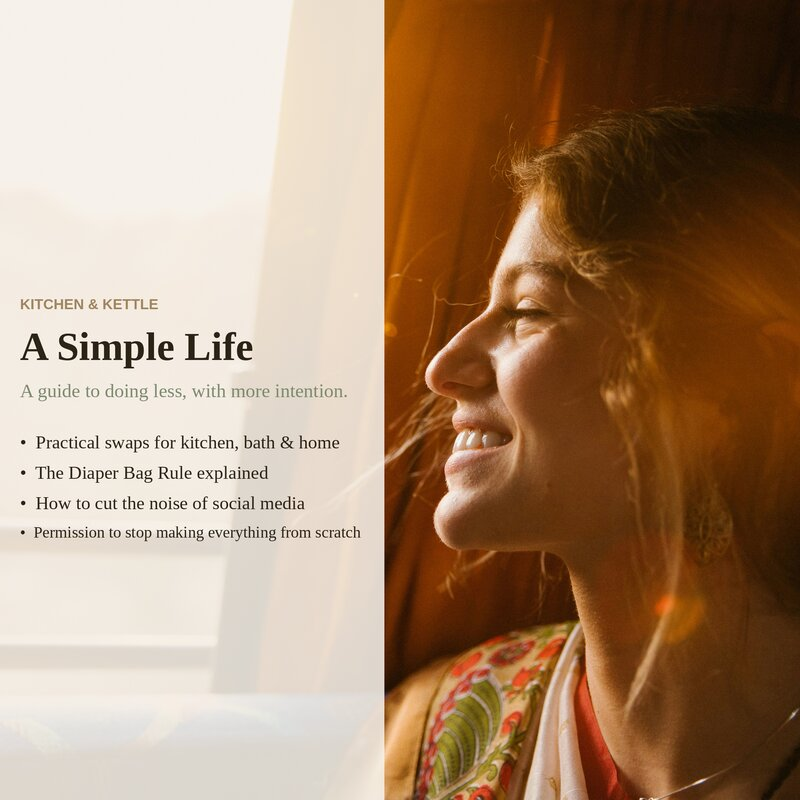
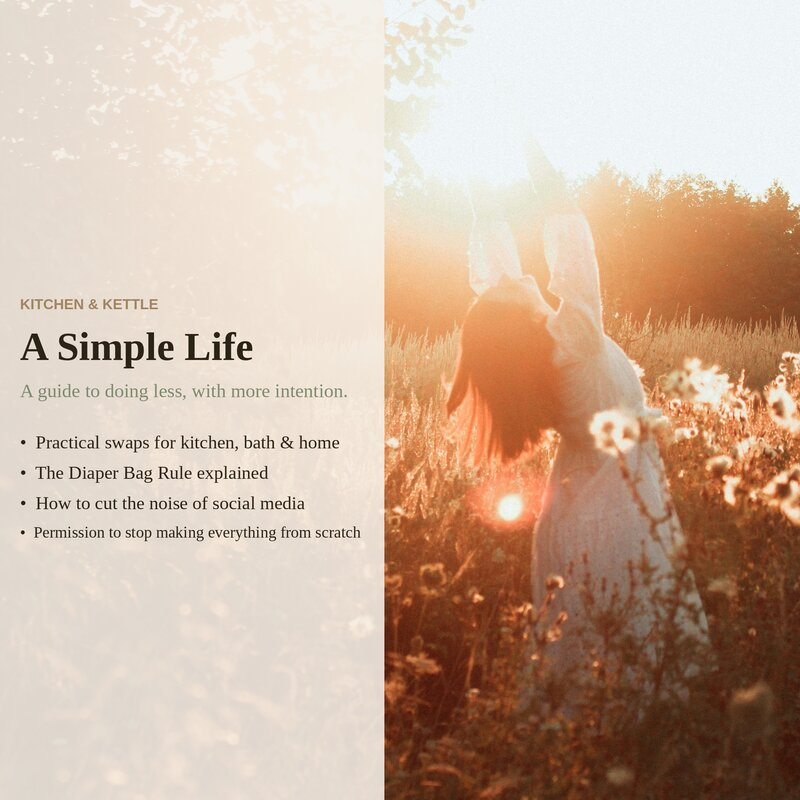
simple-life-guide: swap primary photo to taras-kots-nvcKq08ZnTU-unsplash
Replace church-of-the-king photo with new warm-toned image.
Regenerated: primary listing, all 3 pins, listing-web image.
Updated: pin.html CSS, generate_info_cards.py, generate_all_pins.py.

diff --git a/digital-products/simple-life-guide/pin.html b/digital-products/simple-life-guide/pin.html
@@ -15,7 +15,7 @@
   }
   .bg {
     position: absolute; inset: 0;
-    background: url('church-of-the-king-e6ZlCzBnGWI-unsplash.jpg') center/cover;
+    background: url('taras-kots-nvcKq08ZnTU-unsplash.jpg') center/cover;
   }
   .overlay {
     position: absolute; inset: 0;

diff --git a/scripts/generate_all_pins.py b/scripts/generate_all_pins.py
@@ -435,7 +435,7 @@ PRODUCTS = [
     {
         "name": "A Simple Life Guide",
         "dir": "simple-life-guide",
-        "photo": "church-of-the-king-e6ZlCzBnGWI-unsplash.jpg",
+        "photo": "taras-kots-nvcKq08ZnTU-unsplash.jpg",
         "tip": "The Diaper Bag Rule: one good thing that does many jobs beats five specialized ones. Mason jars, bar soap, shop cloths — use what already works.",
         "bullets": [
             "Kitchen swaps: mason jars, fewer oils, one brewer, no disposables",

diff --git a/digital-products/simple-life-guide/generate_info_cards.py b/digital-products/simple-life-guide/generate_info_cards.py
@@ -15,7 +15,7 @@ F_SERIF_BOLD = '/usr/share/fonts/liberation/LiberationSerif-Bold.ttf'
 F_SANS = '/usr/share/fonts/liberation/LiberationSans-Bold.ttf'
 F_SANS_REG = '/usr/share/fonts/liberation/LiberationSans-Regular.ttf'
 
-SRC = '/home/chels/test/digital-products/simple-life-guide/church-of-the-king-e6ZlCzBnGWI-unsplash.jpg'
+SRC = '/home/chels/test/digital-products/simple-life-guide/taras-kots-nvcKq08ZnTU-unsplash.jpg'
 OUT_DIR = '/home/chels/test/digital-products/simple-life-guide'
 
 
